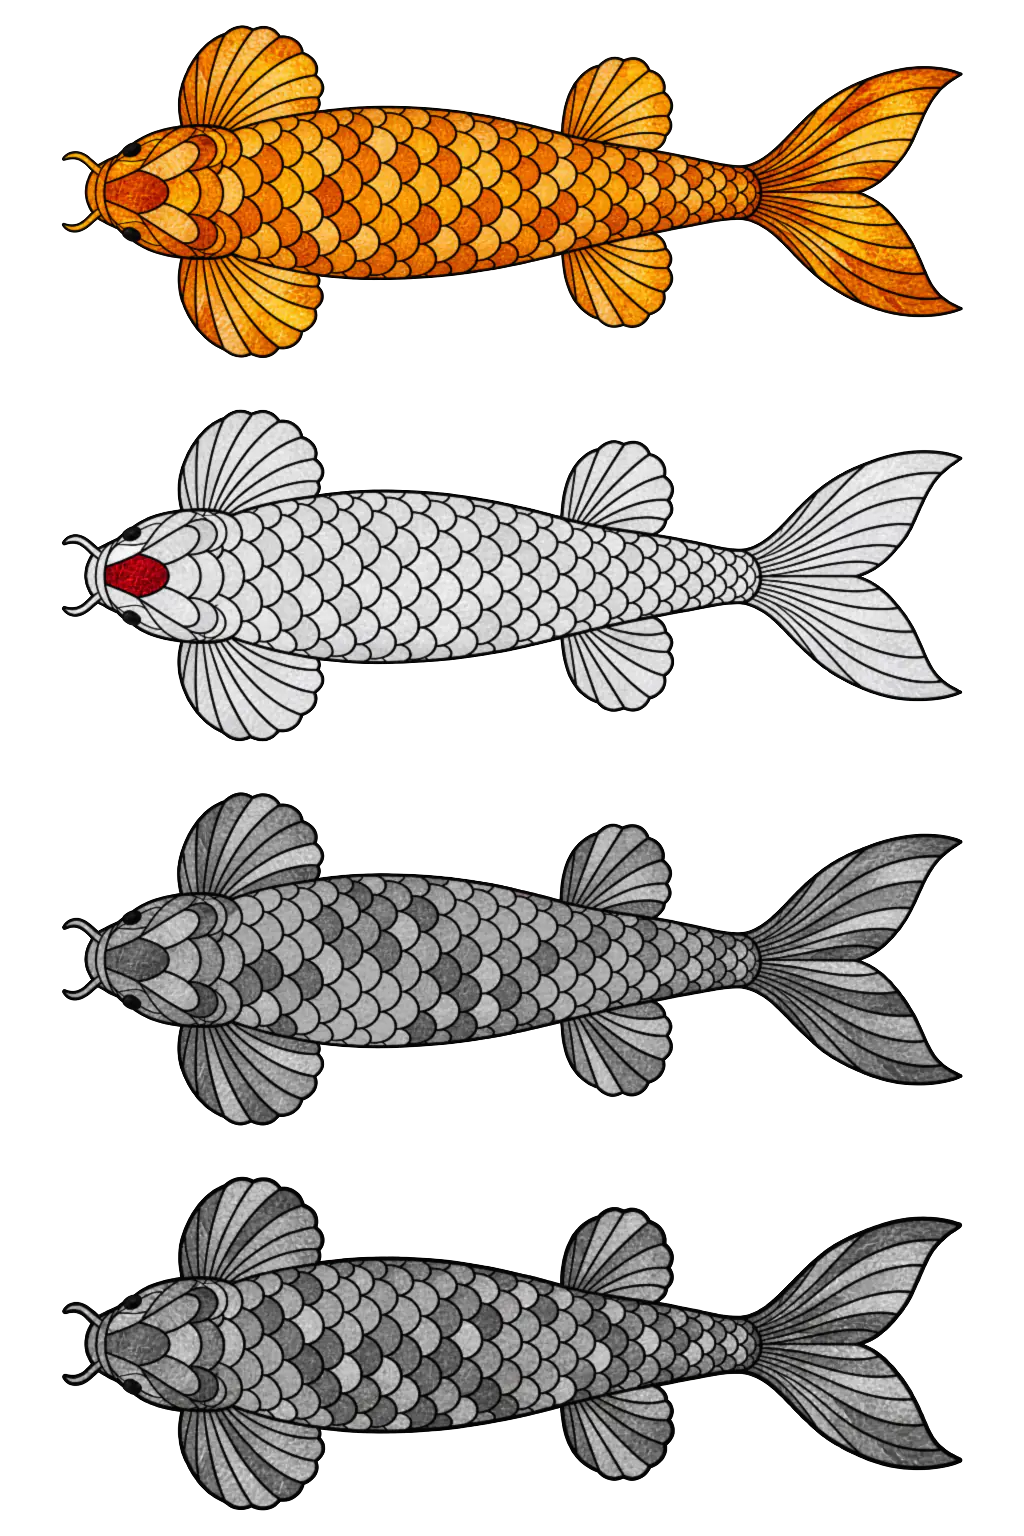
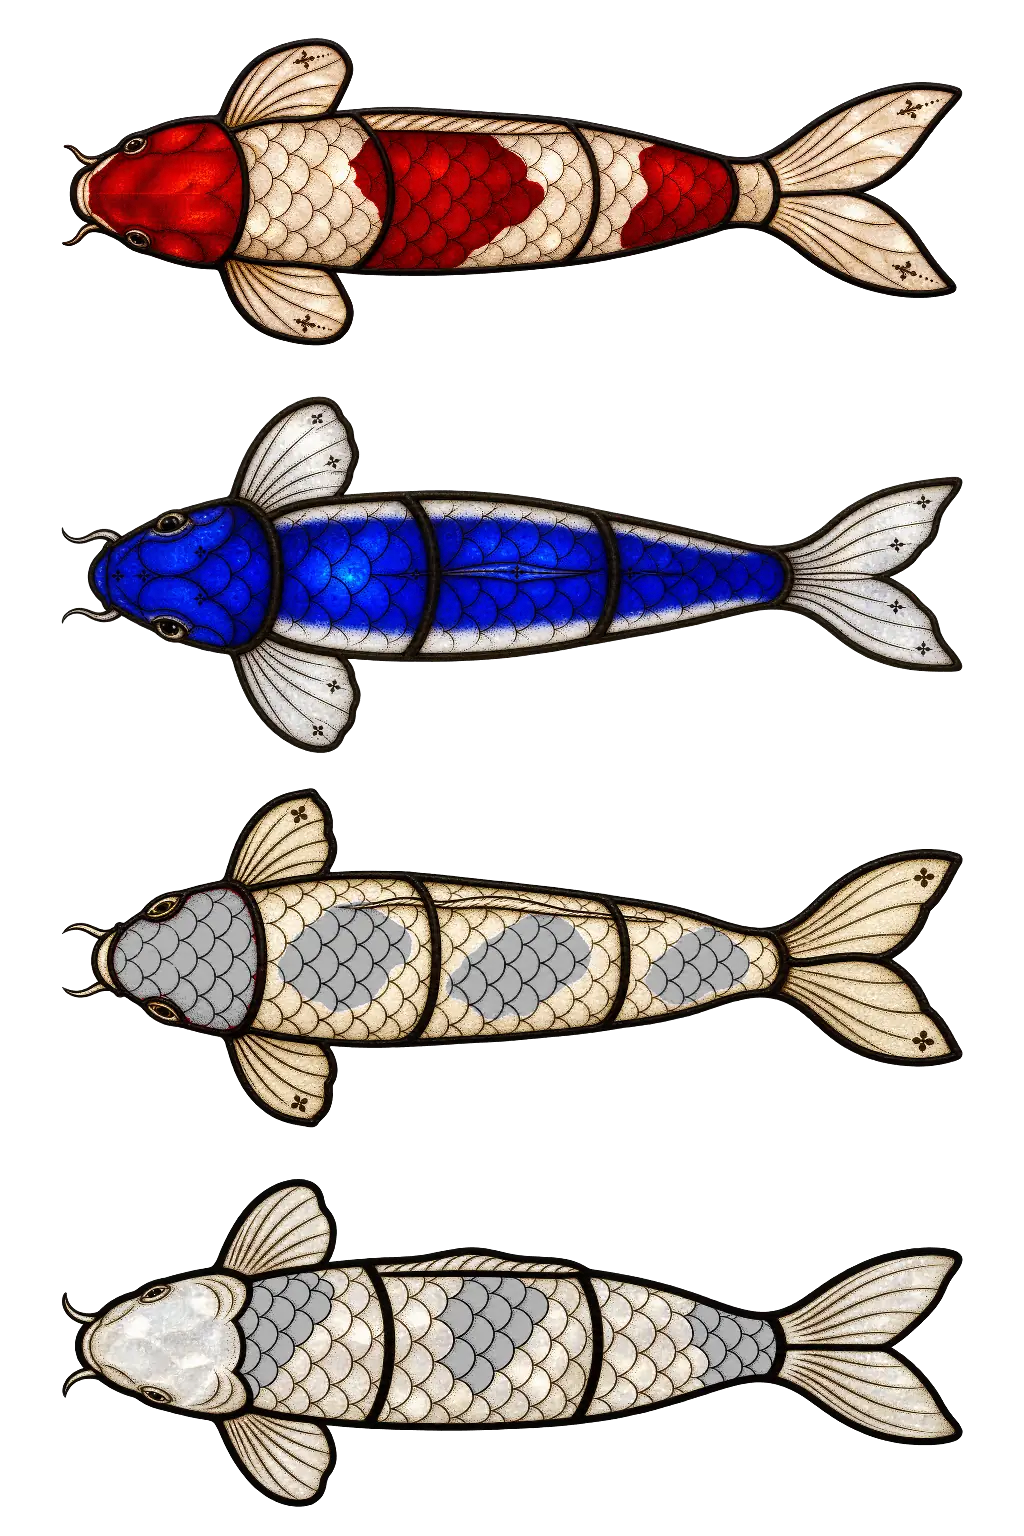
feat(pond): redraw the stained glass koi for the gold window
The bed chosen has a gold ground, so the koi are white glass, ruby
and cobalt: a gold koi would vanish on it. Each is now a few pieces
in thick lead, as a Gothic glazier draws a fish, with its scales,
fin rays and eyes painted in trace line, and the leads lying across
the body so it can bend. Row 1 is white with ruby, row 2 cobalt with
white flanks and fins, rows 3 and 4 white with grey patches to tint;
the mask is those patches.

Only the koi are redone: the brief asks to stop here for a look
before the dragon and the lilies.

diff --git a/docs/agents/pond.md b/docs/agents/pond.md
@@ -1152,7 +1152,7 @@ first and stop there for Jincheng's look; the rest follows only once the bed is 
      fields empty. The top fifth is dark stone under the arch's point, for the title.
    - In both the rose or round light is a true circle. No fish, no plants, no figures, no text.
      The shader lays the moving water and the time of day over it. Under 300 KB and 120 KB.
-2. **P0, asked again, after the bed is accepted:** `koi.webp` and `koi-mask.webp`, to the common
+2. **P0, delivered a third time, to wire in and look at; the dragon and the lilies wait on it:** `koi.webp` and `koi-mask.webp`, to the common
    spec ("The koi sheet"): each koi as a Gothic glazier draws a fish: a few pieces of glass (head,
    body in two or three, each fin, the tail), the scales, gills, fin rays and eye drawn on them in
    dark trace line with a little stippled shading, the lead only where pieces meet and lying across
@@ -1189,8 +1189,8 @@ What has come, in `public/pond/stained/`, all made by the image model. Only the 
 | `bed.webp` | 2048 × 1152, 271 KB | Fourth version, the one chosen: wide-2 of the candidates drawn after the owner's photograph, enlarged from its 1672 × 941 original. A window in a dark wall, straight on, opaque to every edge. Three broad lancets with pointed heads between black mullions; their glass lies at x 681 to 1025, 1154 to 1497 and 1625 to 1970, from y 21 to 1118, the gold ground inside each border from about y 185 to 1080 and the green foot below it. The ground is gold diamond quarries about 110 pixels wide and 140 tall (`#E99C06`, brighter at each quarry's middle), each with a fine painted sprig, and four cobalt quarries to a lancet; a border of ruby, green, purple and blue pieces; a gold canopy on blue at each head; a band of green at each foot; two small gold lights between the heads. The left 600 pixels are near-black wall with faint courses. The heads stand 21 pixels from the top edge and the stone arch over them is cut by it; there is no round light or sun in the wide one. It has its line in the size check: below quality 75 the painted sprigs smear. |
 | `bed-right.webp` | 2048 × 1152, 194 KB | A candidate beside `bed.webp`, not in its place: the same picture at nine tenths, set against the right and bottom edges, with the wall carried on to the left (mirrored) and above (a band of the same wall), so no glass is lost or redrawn. The glass lies at x 818 to 1127, 1243 to 1552 and 1667 to 1977, from y 135 to 1121: the window starts at 39% of the width and stands 135 pixels clear of the top. The quarries are about 100 × 125. The stone arch over the heads still ends at a line, now at y 115, which shows only when the picture is much brightened. Encoded at quality 58 to stay within the budget, so its sprigs are a little softer than the bed's. |
 | `bed-tall.webp` | 1080 × 1920, 175 KB | Fourth version, the one chosen: tall-2 of the candidates, enlarged from its 941 × 1672 original; the owner's photograph's design without its figures. Two broad lancets, their glass at x 89 to 458 and 624 to 994, from about y 690 to 1841, the gold ground from about y 835 to 1800, with the same quarries, cobalt pieces, borders, canopies and green feet as the wide one. Above and between them a round light, a true circle about 215 pixels in radius with its centre near (537, 532), holding a gold sun with rays going out to orange; a tracery light of gold and blue quarries at each shoulder. The glass begins at y 340; above it is dark stone under the arch. Over the 120 KB asked for: at quality 28, which meets it, the painted sprigs are gone, so it is at quality 45. |
-| `koi.webp` | 1024 × 1536, 194 KB | Four koi from straight above in rows of 384, heads to the left, each from the barbels at x 62 to the tail tip at x 962, the spine on its row's middle line, the paint from 24 to 359 down each row (25 pixels clear). The second version: the first was nine flat pieces a fish. Each is some 150 pieces of glass in black lead: scales as rows of arcs across the body, about seven across at the widest and some twenty rows along it, each scale a tone of its own; a head of several pieces with painted eyes and two barbels; each of the four fins a fan of six to eight ribbed pieces, the forked tail one of a dozen. No lead runs along the spine. Row 1: ambers, golds and orange, a deeper piece on the brow. Row 2: milk-white, with one ruby piece on the brow. Rows 3 and 4: greys. All four are one cutting, the last three made from the first. The body is a fifth as wide as the fish is long. The glass is crinkled more than streaked, and its grain is softened by half a pixel to bring the file within the budget; the white koi's glass varies little; the fins of a pair differ a little. |
-| `koi-mask.webp` | 1024 × 1536, 8 KB | White over the patches to tint, soft by 2 pixels, black elsewhere, cut from the same pictures as the koi (the patches were painted magenta, then turned to a middle grey), so it lines up to the pixel. Each patch is a group of neighbouring scales with the leads between them. Row 3: four patches on the back, from the shoulder to two thirds along (16% of the fish). Row 4: three (9%). The patches follow the scales' edges, so their outlines are ragged; none is on a head, a fin or a tail, and row 4's are small. |
+| `koi.webp` | 1024 × 1536, 196 KB | Third version, for the gold bed; the second was built of some 150 small coloured pieces a fish. Four koi from straight above to the common spec, heads to the left, barbels at x 62, tails to x 963, the spine on each row's middle line. Each is a few pieces of glass in thick black lead: a head, the body in three pieces with the leads lying across it, two pectoral fins and a forked tail; the scales, the fin rays, the eyes and a small fleur on the fins are painted in dark trace line. Row 1 (paint y 38 to 346): pearl white with a ruby head and two ruby patches on the back. Row 2 (y 12 to 369): cobalt head and back, white flanks, fins and tail. Rows 3 and 4 (y 20 to 360 and 27 to 355): white with patches of mid grey to tint. Row 3's white is warmer (cream) than row 4's; the grey patches are flat, without the glass's mottle, so a tint lies flat there; row 2's blue is brighter than the bed's cobalt. Encoded at quality 72 to keep within the budget. |
+| `koi-mask.webp` | 1024 × 1536, 7 KB | White over the patches to tint, soft-edged, black elsewhere. Row 3: a cap on the head and three patches down the back, 27% of the fish. Row 4: three smaller patches (shoulders, mid-back, by the tail), 13%. Rows 1 and 2 have none. |
 | `dragon.webp` | 2048 × 512, 125 KB | The Dragon Gate's dragon in glass and lead: head to the left, the spine on y 256, the snout's tip at x 64 and the tail's at x 1984, one straight picture scaled evenly to those two points. Amber and gold scales as small leaded pieces in rows of arcs, about four across the body, a chain of ruby pieces down the spine, a ruby mane and tail flame, a cream muzzle, antlers, whiskers and claws, painted eyes under brows. Paint from y 111 to 401; legs at x 446 and x 1021, the claws 145 pixels from the spine. The trunk is about 140 pixels across behind the shoulders, broader than the 100 asked for; the muzzle is short and scrolled; the outer lead is heavier than the inner ones, and the glass's streaks are dense, nearer marbled enamel in places. |
 | `lilies.webp` | 1024 × 512, 101 KB | Eight motifs in a 4 × 2 grid of 256-pixel cells, from above, at one scale, each at least 14 pixels clear of its cell. The second version: the first one's pads were discs cut into wedges. Top row: three pads with one notch each (228, 180 and 130 pixels across; some 65, 60 and 45 pieces), their veins lead lines that branch and curve from the stalk, in deep, leaf, yellow and blue greens, with a pale rim of narrow pieces; an open lotus of three rings of petals, each petal a white tip and a pink base, round an amber heart (212). Bottom row: a paler lotus of two rings (200), a bud seen from above as a closed whorl of six pink pieces (88), a seed-pod with nine ringed seeds (110), a withered pad in brown, amber, rust and olive with branching veins, a ragged edge and two holes (200 × 187). The leads inside the motifs are 1 to 2 pixels, finer than the 3 asked for, so the rims and the pod run together at half size; the bud is rounder than a bud is. |
 | `afloat.webp` | 1024 × 512, 88 KB | Eight motifs in a 4 × 2 grid of 256-pixel cells, from above, each fitted to its cell with 16 pixels clear. Top row: a pink petal of two pieces with a cleft (it reads as a heart), a pale peach petal of one piece, a maple leaf in ruby and amber, a narrow leaf in amber and olive lying level. Bottom row: a snow crystal in pale blue, a frost flower of many small white pieces, a dragonfly with clear wings and a ruby body, a butterfly in ruby, amber and violet; the two flying things head to the right. The frost flower's pieces run together when small, and the butterfly's feelers are thin black lines that go on dark water. |
